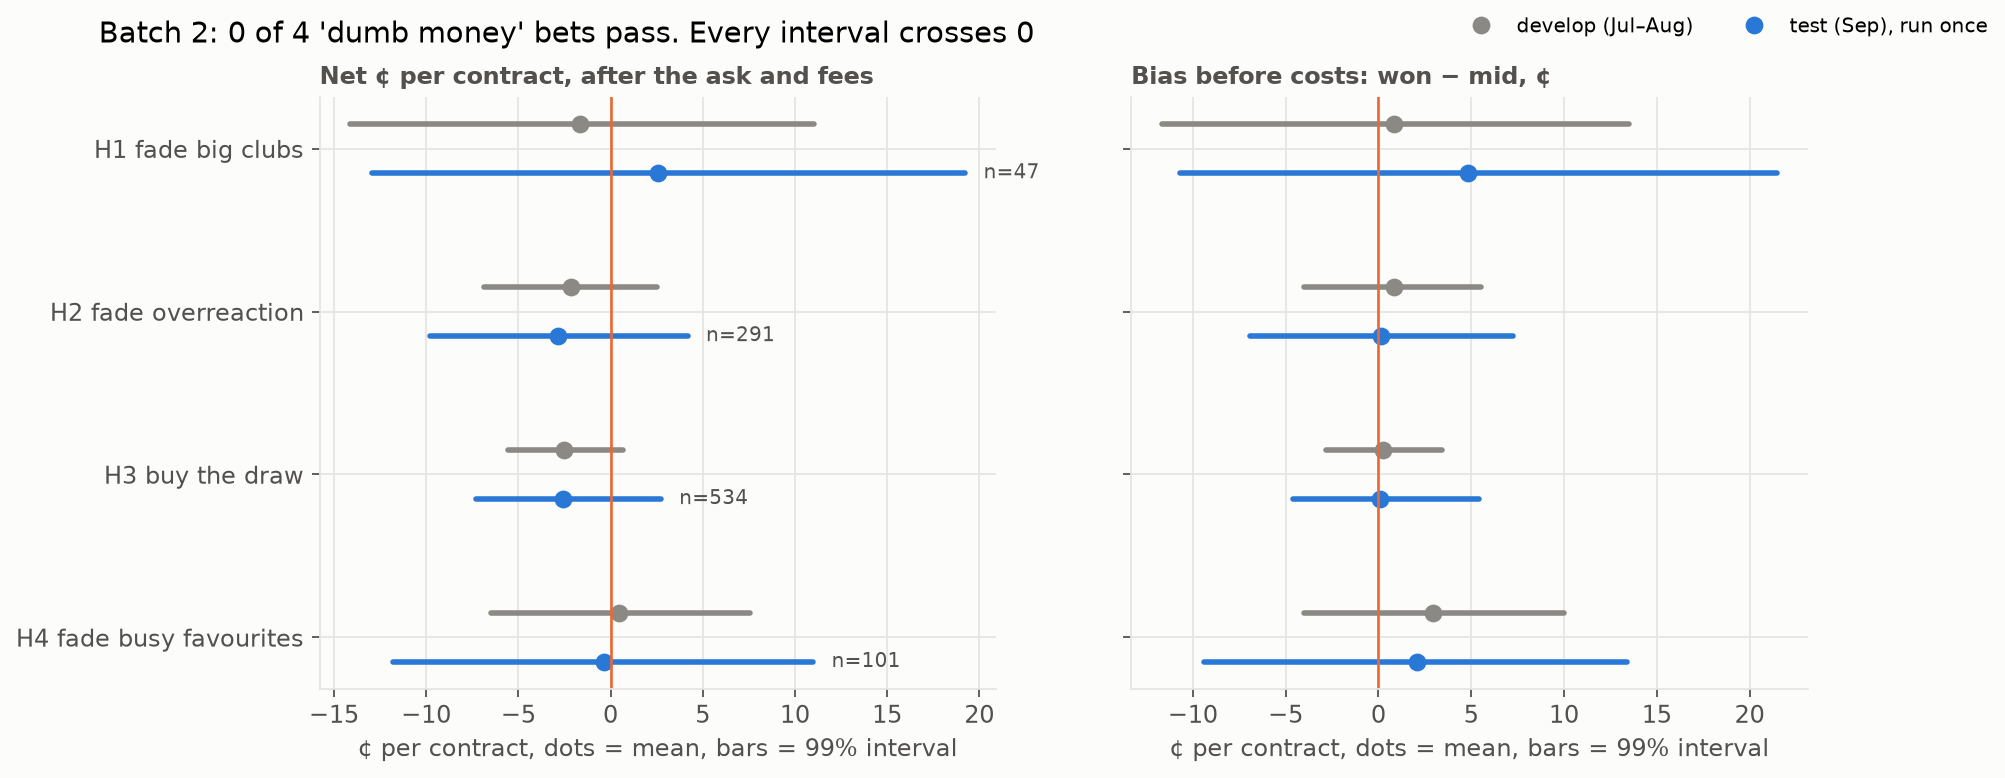
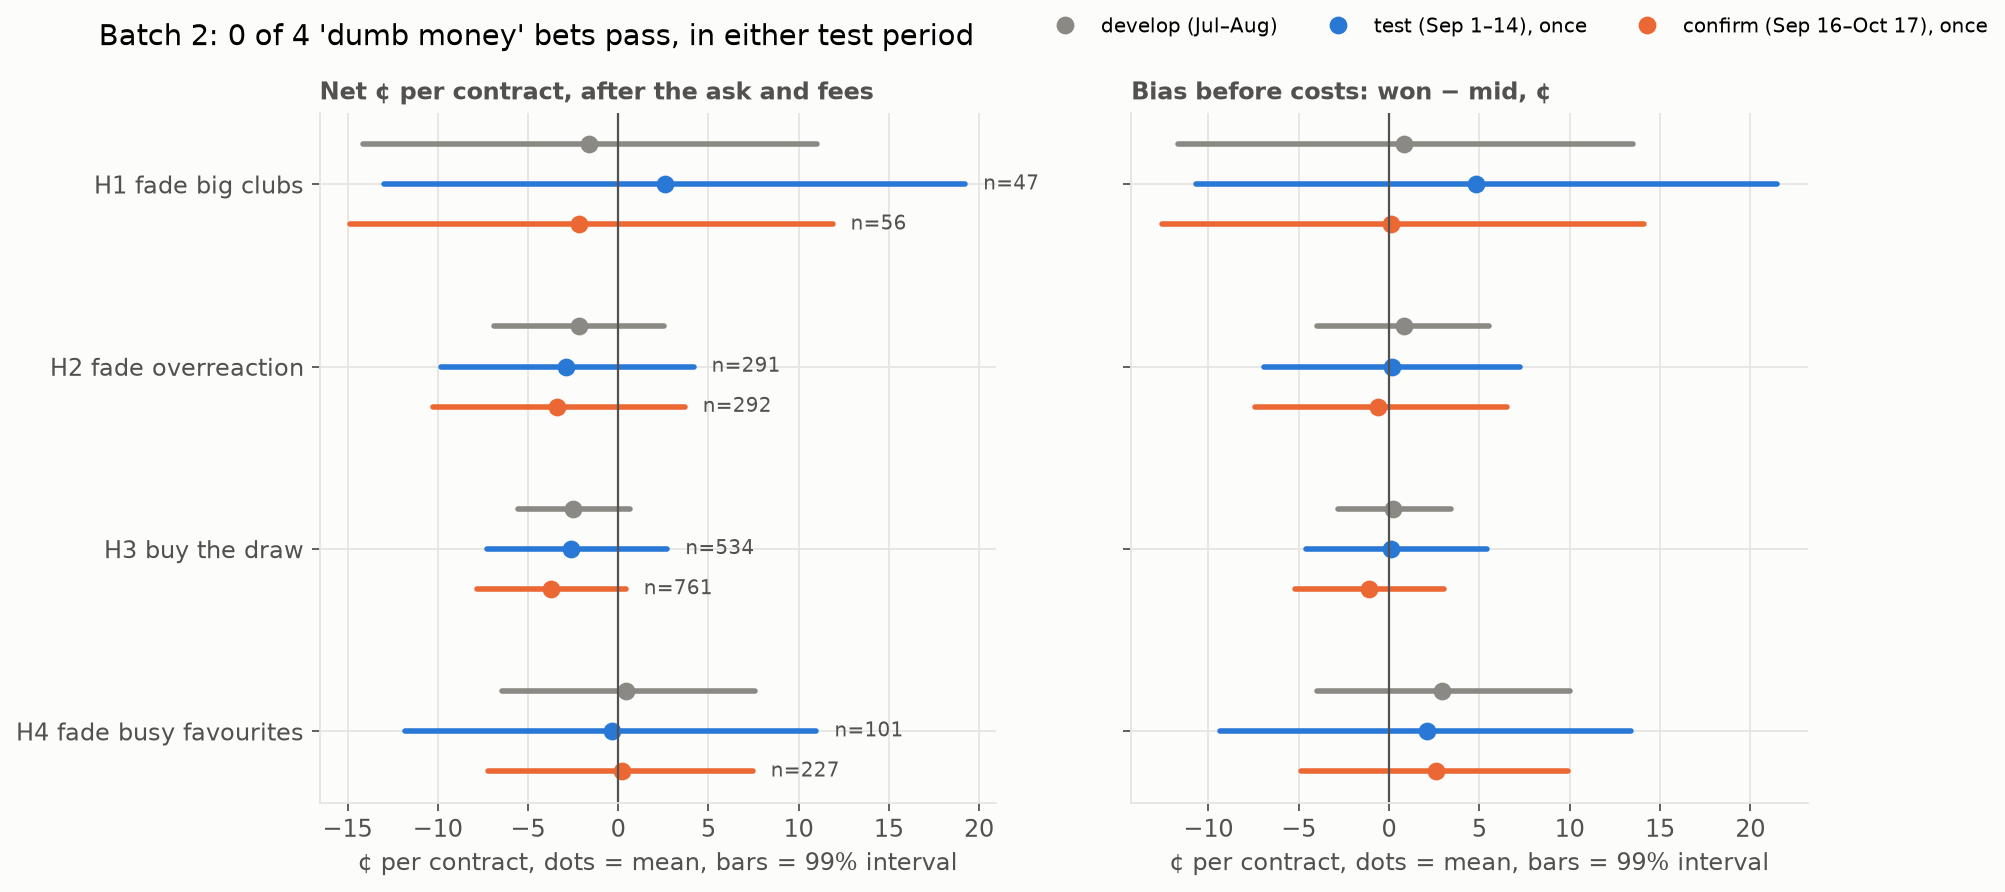
Finding 12: confirmation run on Sep 16-Oct 17 (1,555 games). Still 0 of 4
Busy-favourite lean repeats (+2.1 to +2.9c bias) but stays inside noise;
quiet-game favourites +3.3c noted as an unregistered lead.

diff --git a/scripts/batch2_charts.py b/scripts/batch2_charts.py
@@ -25,31 +25,34 @@ def main():
         dev = json.load(f)
     with open(os.path.join(RES, "batch2_test.json")) as f:
         test = json.load(f)
+    with open(os.path.join(RES, "batch2_confirm.json")) as f:
+        conf = json.load(f)
     keys = list(NAMES)
-    fig, axes = plt.subplots(1, 2, figsize=(12, 4.8), sharey=True)
+    fig, axes = plt.subplots(1, 2, figsize=(12, 5.6), sharey=True)
     panels = (("Net ¢ per contract, after the ask and fees", "net"),
               ("Bias before costs: won − mid, ¢", "bias"))
     for ax, (title, what) in zip(axes, panels):
         for i, k in enumerate(keys):
             d = dev[k]["grid"][dev[k]["selected"]]
-            t = test[k]
-            for off, r, color, label in ((-0.15, d, MUTED, "develop (Jul–Aug)"),
-                                         (0.15, t, BLUE, "test (Sep), run once")):
+            t, c = test[k], conf[k]
+            for off, r, color, label in ((-0.22, d, MUTED, "develop (Jul–Aug)"),
+                                         (0.0, t, BLUE, "test (Sep 1–14), once"),
+                                         (0.22, c, ORANGE, "confirm (Sep 16–Oct 17), once")):
                 s = r if what == "net" else r["bias_before_costs"]
                 lo, hi = s["ci99"]
                 ax.plot([lo, hi], [i + off] * 2, color=color, lw=2.5, solid_capstyle="round")
                 ax.plot(s["mean"], i + off, "o", color=color, ms=7,
                         label=label if i == 0 and ax is axes[0] else None)
-                if what == "net" and r is t:
-                    ax.text(hi + 1, i + off, f"n={t['n_trades']}", va="center",
+                if what == "net" and r is not d:
+                    ax.text(hi + 1, i + off, f"n={r['n_trades']}", va="center",
                             fontsize=9, color=INK_2)
-        ax.axvline(0, color=ORANGE, lw=1.2)
+        ax.axvline(0, color=INK_2, lw=1)
         ax.set_title(title, fontsize=11, loc="left", color=INK_2)
         ax.set_xlabel("¢ per contract, dots = mean, bars = 99% interval")
     axes[0].set_yticks(range(len(keys)), [NAMES[k] for k in keys])
     axes[0].invert_yaxis()
-    fig.legend(loc="upper right", ncol=2, fontsize=9, frameon=False)
-    fig.suptitle("Batch 2: 0 of 4 'dumb money' bets pass. Every interval crosses 0",
+    fig.legend(loc="upper right", ncol=3, fontsize=9, frameon=False)
+    fig.suptitle("Batch 2: 0 of 4 'dumb money' bets pass, in either test period",
                  x=0.01, ha="left", fontsize=13)
     save(fig, "20_batch2_results.png")
 

diff --git a/docs/findings/12_BATCH2_RESULTS.md b/docs/findings/12_BATCH2_RESULTS.md
@@ -14,8 +14,32 @@ then `python scripts/batch2_charts.py`.
 
 ![Batch 2 results](img/20_batch2_results.png)
 
-**Result: 0 of 4 pass.** None of the four casual-bettor mistakes shows up in the price clearly
-enough to profit from, or even to measure.
+**Result: 0 of 4 pass, in the first test and in the confirmation run.** None of the four
+casual-bettor mistakes shows up in the price clearly enough to profit from, or even to measure.
+
+## Confirmation run (2026-10-21, pre-registered 2026-10-19)
+
+Fresh droplet snapshot. **1,555 settled games, kickoffs Sep 16 → Oct 17**, none overlapping the
+first test. Same frozen settings, run once. Results: `results/batch2_confirm.json`.
+
+| | Bet | Bets | Net ¢ / contract, 99% | Bias before costs | Random entry | Verdict |
+|---|---|---|---|---|---|---|
+| H1 | NO on big clubs | 56 | −2.2 [−14.8, +11.9] | +0.1 | −0.7 | ❌ |
+| H2 | Against a team after a ≥3-goal result | 292 | −3.4 [−10.3, +3.7] | −0.6 | −2.5 | ❌ |
+| H3 | YES on the draw | 761 | −3.7 [−7.8, +0.4] | −1.1 | −2.0 | ❌ |
+| H4 | NO on busy favourites | 227 | +0.2 [−7.2, +7.5] | +2.6 | −5.5 | ❌ |
+
+- **The draw and overreaction "no"s hold up.** The draw bias is slightly negative this time (−1.1¢ on 761 bets).
+- **Big clubs: the +4.8¢ lean in the first test disappeared** (+0.1¢). It was noise.
+- **Busy favourites are the one consistent lean.** Bias is +2.9 / +2.1 / +2.6¢ across develop, test and confirm. It's the same direction in three separate periods, but every interval crosses 0. After the spread and fee it nets about 0.
+
+## Not pre-registered, a lead only: favourites in *quiet* games
+
+- The H4 diagnostic also measures favourites in the other 90% of games. In the confirmation run they won **3.3¢ more often than priced** (95% interval +0.8 to +5.9; 99% −0.2 to +7.0). In the first test it was +1.3¢.
+- Put together: busy-game favourites are slightly **overpriced** and quiet-game favourites slightly **underpriced**. That is the shape casual money would leave.
+- **This was found by looking, not pre-registered,** so it is only a lead. Testing it properly needs its own pre-registration and fresh games (from Oct 18 on). It also has to beat the taker cost of about 2–4¢ at favourite prices.
+
+## First test (Sep 1–14)
 
 | | Bet (frozen setting) | Test bets | Net ¢ / contract, 99% | Bias before costs | Random entry | Verdict |
 |---|---|---|---|---|---|---|
@@ -44,4 +68,6 @@ enough to profit from, or even to measure.
 - **Power:** a 1¢ edge needs about 1,900 bets to detect. H1 and H4 are far short of that, so a fail there means "not detected", not "not there".
 - **Hourly bars, taker at the ask:** a real order could do a little better or worse.
 - **Survivorship:** the archive only includes markets Kalshi still lists.
-- **Overlap:** the test period overlaps the Phase 2 data and Batch 1's test, but none of these rules had been run on any data before.
+- **Overlap:** the first test period overlaps the Phase 2 data and Batch 1's test, but none of these rules had been run on any data before. The confirmation period overlaps nothing.
+- **Confirmation prices** are hourly bars rebuilt from the collector's 5-minute snapshots. They match the backfill exactly where the two overlap.
+- **Not covered:** 3,956 `kalshi_only` games in the new snapshot (no ESPN kickoff).

diff --git a/README.md b/README.md
@@ -21,7 +21,7 @@ An autonomous system that scans every open Soccer market on Kalshi (discovered l
 | [08](docs/findings/08_DATASET.md) | Dataset and bars to beat | Pinnacle 0.1981, Kalshi 0.1975 |
 | [09](docs/findings/09_PHASE1_BASELINES.md) | Do baseline models beat the market? | 0 of 4 |
 | [10](docs/findings/10_PHASE2_TIERS.md) | Is the market weaker in any tier or time? | 0 of 12 groups |
-| [11](docs/findings/11_PREREG_BATCH2.md) · [12](docs/findings/12_BATCH2_RESULTS.md) | Do casual bettors bend prices (big clubs, overreaction, draws, busy favourites)? | 0 of 4 |
+| [11](docs/findings/11_PREREG_BATCH2.md) · [12](docs/findings/12_BATCH2_RESULTS.md) | Do casual bettors bend prices (big clubs, overreaction, draws, busy favourites)? | 0 of 4, test and confirmation |
 
 ## v1.0.0 — research report: trading mechanics don't beat Kalshi (2026-09-28)
 
